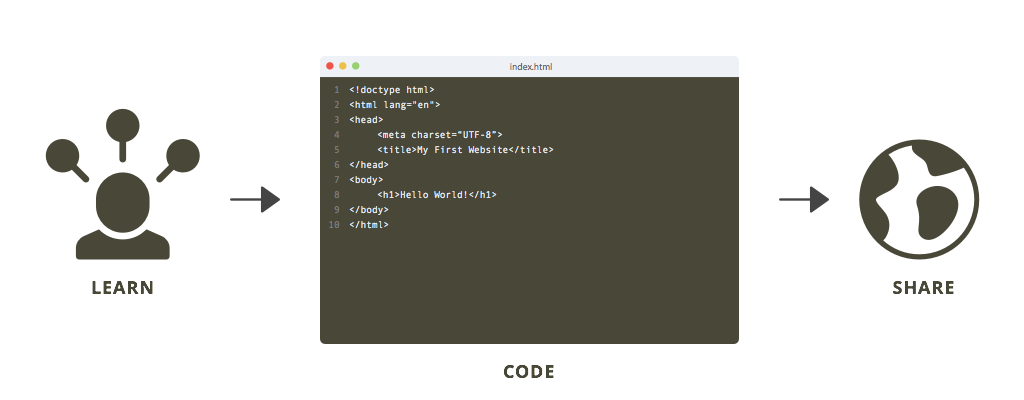
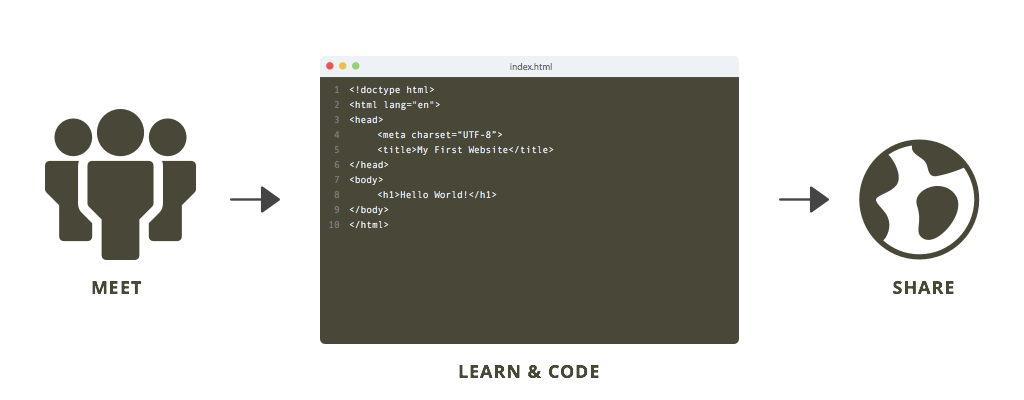
update illustration, minor adjustmnets

Changed region(s): [[0.0312, 0.27, 0.2188, 0.66], [0.4375, 0.9, 0.5938, 0.96], [0.0938, 0.69, 0.1562, 0.75]]

diff --git a/assets/css/screen.css b/assets/css/screen.css
@@ -1,1 +1,1 @@
-article,aside,details,figcaption,figure,footer,header,hgroup,hr,main,menu,nav,section,summary{display:block}hr,input[type=search]{box-sizing:content-box}pre,textarea{overflow:auto}a,a:hover,a:visited{transition:color .75s}body,fieldset{margin:0}fieldset,legend,td,th{padding:0}.hidden,.invisible{visibility:hidden}html{font-family:sans-serif;-ms-text-size-adjust:100%;-webkit-text-size-adjust:100%}audio,canvas,progress,video{display:inline-block;vertical-align:baseline}audio:not([controls]){display:none;height:0}[hidden],template{display:none}a{background-color:transparent}a:active,a:hover{outline:0}abbr[title]{border-bottom:1px dotted}fieldset,hr,img,legend{border:0}b,optgroup,strong{font-weight:700}dfn{font-style:italic}h1{margin:.67em 0}mark{background:#ff0;color:#000}sub,sup{font-size:75%;line-height:0;position:relative;vertical-align:baseline}sup{top:-.5em}sub{bottom:-.25em}svg:not(:root){overflow:hidden}figure{margin:1em 40px}hr{margin:3.24em auto;width:55%;height:1px;background-color:#b7b58c}code,kbd,pre,samp{font-family:monospace,monospace;font-size:1em}button,input,optgroup,select,textarea{color:inherit;font:inherit;margin:0}body,html,ol,p,ul{font-size:.9em}.footer,.text-italic{font-style:italic}button{overflow:visible}button,select{text-transform:none}.header__title,.text-uppercase{text-transform:uppercase}button,html input[type=button],input[type=reset],input[type=submit]{-webkit-appearance:button;cursor:pointer}button[disabled],html input[disabled]{cursor:default}button::-moz-focus-inner,input::-moz-focus-inner{border:0;padding:0}input{line-height:normal}input[type=checkbox],input[type=radio]{box-sizing:border-box;padding:0}input[type=number]::-webkit-inner-spin-button,input[type=number]::-webkit-outer-spin-button{height:auto}input[type=search]{-webkit-appearance:textfield}input[type=search]::-webkit-search-cancel-button,input[type=search]::-webkit-search-decoration{-webkit-appearance:none}textarea{resize:vertical}table{border-collapse:collapse;border-spacing:0}html{line-height:1.5;box-sizing:border-box}*,:after,:before{box-sizing:inherit}body{font-family:"Open Sans",Helvetica,Arial,"Lucida Grande",sans-serif;background:linear-gradient(to bottom,#f8f7d6,#F4F1BB);color:#494838}a,a:visited{color:#ED6A5A;text-decoration:underline}a:hover{color:#b25044!important}.small,p.small,small{font-size:.75em}.big,p.big{font-size:1.08em}h1,h2{font-size:1.86624em}h3{font-size:1.296em}ul{margin-top:1.08em}audio,canvas,iframe,img,svg,video{vertical-align:middle;max-width:100%}.centered,.wrap,.wrap--wide{margin-left:auto;margin-right:auto}.delay-0.5{-webkit-animation-delay:.5s;animation-delay:.5s}.delay-1{-webkit-animation-delay:1s;animation-delay:1s}.delay-1.5{-webkit-animation-delay:1.5s;animation-delay:1.5s}.delay-2{-webkit-animation-delay:2s;animation-delay:2s}.duration-0.5{-webkit-animation-duration:.5s;animation-duration:.5s}.duration-1{-webkit-animation-duration:1s;animation-duration:1s}.duration-1.5{-webkit-animation-duration:1.5s;animation-duration:1.5s}.duration-2{-webkit-animation-duration:2s;animation-duration:2s}.pulse{-webkit-animation-name:pulse;animation-name:pulse}.fadeInUp{-webkit-animation-name:fadeInUp;animation-name:fadeInUp}.clearfix:after,.clearfix:before{content:" ";display:table}.clearfix:after{clear:both}.wrap,.wrap--wide{max-width:98%}.text-center{text-align:center}.text-left{text-align:left}.text-bold{font-weight:700}.text-small{font-size:.75em}.text-super-small{font-size:.625em}.float-left{float:left}.float-right{float:right}.no-float{float:none}.margin-top{margin-top:1.08em}.margin-top--double{margin-top:2.16em}.margin-top--triple{margin-top:3.24em}.margin-top--quadra{margin-top:4.32em}.margin-bottom{margin-bottom:1.08em}.margin-bottom--double{margin-bottom:2.16em}.padding-box{padding:1.08em}.padding-box--double{padding:2.16em}.padding-top{padding-top:1.08em}.padding-top--double{padding-top:2.16em}.padding-bottom{padding-bottom:1.08em}.padding-bottom--double{padding-bottom:2.16em}.padding-ends{padding-top:1.08em;padding-bottom:1.08em}.padding-ends--double{padding-top:2.16em;padding-bottom:2.16em}.padding-sides{padding-left:1.08em;padding-right:1.08em}.padding-sides--double{padding-left:2.16em;padding-right:2.16em}.hidden{display:none!important}.visually-hidden{border:0;clip:rect(0 0 0 0);height:1px;margin:-1px;overflow:hidden;padding:0;position:absolute;width:1px}.visually-hidden.focusable:active,.visually-hidden.focusable:focus{clip:auto;height:auto;margin:0;overflow:visible;position:static;width:auto}.w5{width:5%}.w10{width:10%}.w15{width:15%}.w20{width:20%}.w25{width:25%}.w30{width:30%}.w35{width:35%}.w40{width:40%}.w45{width:45%}.w50{width:50%}.w55{width:55%}.w60{width:60%}.w65{width:65%}.w70{width:70%}.w75{width:75%}.w80{width:80%}.w85{width:85%}.w90{width:90%}.w95{width:95%}.w100{width:100%}.author{margin-top:2.16em}.author__name,.author__social,.author__status{margin-top:.27em}.author__photo img{max-width:90px;border:2px solid #b7b58c;border-radius:50%}.author__name{margin-bottom:0}.author__status{font-size:.75em}.author__status.on{color:#00B16A}.author__status.off{color:#ED6A5A}.author__location{font-weight:700;font-size:1.08em}.author__prompt{margin-top:1.08em;font-size:1.08em}.footer,.header{margin-top:2.16em}.footer{padding-bottom:3.24em;font-size:.9em;text-align:center}.dash-list,.dot-list,.social-media,.unstyled-list{list-style-type:none;padding:0}.header__title{letter-spacing:1px}.header__text{font-size:1.08em}.dash-list{margin-left:0}.dash-list li:before{vertical-align:baseline;content:'–';margin:auto .36em}.dot-list{margin-left:0}.dot-list li{display:inline-block;margin-right:.54em}.dot-list li:after{vertical-align:middle;display:inline-block;content:'';height:5px;width:5px;border-radius:50%;margin-left:.54em;background-color:#b7b58c}.dot-list li:last-of-type{margin-right:none}.dot-list li:last-of-type:after{display:none}.section{margin-top:3.24em}.section__title{margin-bottom:0}.section__body p:first-of-type{margin-top:.27em}.social-media{margin:0;text-align:center}.social-media li{display:inline-block;margin:0 .27em}.social-media div{background-size:17px 17px;background-repeat:no-repeat;height:17px;width:17px}.social-media .github div{background-image:url(../img/icon-github.svg)}.social-media .twitter div{background-image:url(../img/icon-twitter.svg)}.social-media .linkedin div{background-image:url(../img/icon-linkedin.svg)}.social-media .web div{background-image:url(../img/icon-web.svg)}.social-media .mail div{background-image:url(../img/icon-mail.svg)}.workshop{margin-top:2.16em}.workshop__body{margin-top:.27em;font-size:.9em}.workshop__body p:first-child{margin-top:0}.workshop__title{margin-bottom:0}.workshop__label{margin-top:.27em;margin-bottom:.27em;font-weight:700}.workshop ul{margin-top:0}@media only screen and (min-width:768px){body{font-size:1.296em}.wrap{max-width:42em}.wrap--wide{max-width:50em}.section__widgets .author{float:left;width:33%}.author__photo img{max-width:160px}.workshop__split{float:left;width:50%}}@-webkit-keyframes pulse{from{-webkit-transform:scale3d(1,1,1);transform:scale3d(1,1,1);opacity:0}50%{-webkit-transform:scale3d(1.075,1.075,1.075);transform:scale3d(1.075,1.075,1.075)}100%{-webkit-transform:scale3d(1,1,1);transform:scale3d(1,1,1);opacity:1}}@keyframes pulse{from{-webkit-transform:scale3d(1,1,1);transform:scale3d(1,1,1);opacity:0}50%{-webkit-transform:scale3d(1.075,1.075,1.075);transform:scale3d(1.075,1.075,1.075)}100%{-webkit-transform:scale3d(1,1,1);transform:scale3d(1,1,1);opacity:1}}@-webkit-keyframes fadeInUp{from{opacity:0;-webkit-transform:translate3d(0,5%,0);transform:translate3d(0,5%,0)}100%{opacity:1;-webkit-transform:none;transform:none}}@keyframes fadeInUp{from{opacity:0;-webkit-transform:translate3d(0,5%,0);transform:translate3d(0,5%,0)}100%{opacity:1;-webkit-transform:none;transform:none}}
+article,aside,details,figcaption,figure,footer,header,hgroup,hr,main,menu,nav,section,summary{display:block}hr,input[type=search]{box-sizing:content-box}pre,textarea{overflow:auto}a,a:hover,a:visited{transition:color .75s}body,fieldset{margin:0}fieldset,legend,td,th{padding:0}.hidden,.invisible{visibility:hidden}html{font-family:sans-serif;-ms-text-size-adjust:100%;-webkit-text-size-adjust:100%}audio,canvas,progress,video{display:inline-block;vertical-align:baseline}audio:not([controls]){display:none;height:0}[hidden],template{display:none}a{background-color:transparent}a:active,a:hover{outline:0}abbr[title]{border-bottom:1px dotted}fieldset,hr,img,legend{border:0}b,optgroup,strong{font-weight:700}dfn{font-style:italic}h1{margin:.67em 0}mark{background:#ff0;color:#000}sub,sup{font-size:75%;line-height:0;position:relative;vertical-align:baseline}sup{top:-.5em}sub{bottom:-.25em}svg:not(:root){overflow:hidden}figure{margin:1em 40px}hr{margin:3.24em auto;width:55%;height:1px;background-color:#b7b58c}code,kbd,pre,samp{font-family:monospace,monospace;font-size:1em}button,input,optgroup,select,textarea{color:inherit;font:inherit;margin:0}body,html,ol,p,ul{font-size:.9em}.footer,.text-italic{font-style:italic}button{overflow:visible}button,select{text-transform:none}.header__title,.text-uppercase{text-transform:uppercase}button,html input[type=button],input[type=reset],input[type=submit]{-webkit-appearance:button;cursor:pointer}button[disabled],html input[disabled]{cursor:default}button::-moz-focus-inner,input::-moz-focus-inner{border:0;padding:0}input{line-height:normal}input[type=checkbox],input[type=radio]{box-sizing:border-box;padding:0}input[type=number]::-webkit-inner-spin-button,input[type=number]::-webkit-outer-spin-button{height:auto}input[type=search]{-webkit-appearance:textfield}input[type=search]::-webkit-search-cancel-button,input[type=search]::-webkit-search-decoration{-webkit-appearance:none}textarea{resize:vertical}table{border-collapse:collapse;border-spacing:0}html{line-height:1.5;box-sizing:border-box}*,:after,:before{box-sizing:inherit}body{font-family:"Open Sans",Helvetica,Arial,"Lucida Grande",sans-serif;background:linear-gradient(to bottom,#f8f7d6,#F4F1BB);color:#494838}a,a:visited{color:#ED6A5A;text-decoration:underline}a:hover{color:#b25044!important}.small,p.small,small{font-size:.75em}.big,p.big{font-size:1.08em}h1,h2{font-size:1.86624em}h3{font-size:1.296em}ul{margin-top:1.08em}audio,canvas,iframe,img,svg,video{vertical-align:middle;max-width:100%}.centered,.wrap,.wrap--wide{margin-left:auto;margin-right:auto}.delay-0.5{-webkit-animation-delay:.5s;animation-delay:.5s}.delay-1{-webkit-animation-delay:1s;animation-delay:1s}.delay-1.5{-webkit-animation-delay:1.5s;animation-delay:1.5s}.delay-2{-webkit-animation-delay:2s;animation-delay:2s}.duration-0.5{-webkit-animation-duration:.5s;animation-duration:.5s}.duration-1{-webkit-animation-duration:1s;animation-duration:1s}.duration-1.5{-webkit-animation-duration:1.5s;animation-duration:1.5s}.duration-2{-webkit-animation-duration:2s;animation-duration:2s}.pulse{-webkit-animation-name:pulse;animation-name:pulse}.fadeInUp{-webkit-animation-name:fadeInUp;animation-name:fadeInUp}.clearfix:after,.clearfix:before{content:" ";display:table}.clearfix:after{clear:both}.wrap,.wrap--wide{max-width:98%}.text-center{text-align:center}.text-left{text-align:left}.text-bold{font-weight:700}.text-small{font-size:.75em}.text-super-small{font-size:.625em}.float-left{float:left}.float-right{float:right}.no-float{float:none}.margin-top{margin-top:1.08em}.margin-top--double{margin-top:2.16em}.margin-top--triple{margin-top:3.24em}.margin-top--quadra{margin-top:4.32em}.margin-bottom{margin-bottom:1.08em}.margin-bottom--double{margin-bottom:2.16em}.padding-box{padding:1.08em}.padding-box--double{padding:2.16em}.padding-top{padding-top:1.08em}.padding-top--double{padding-top:2.16em}.padding-bottom{padding-bottom:1.08em}.padding-bottom--double{padding-bottom:2.16em}.padding-ends{padding-top:1.08em;padding-bottom:1.08em}.padding-ends--double{padding-top:2.16em;padding-bottom:2.16em}.padding-sides{padding-left:1.08em;padding-right:1.08em}.padding-sides--double{padding-left:2.16em;padding-right:2.16em}.hidden{display:none!important}.visually-hidden{border:0;clip:rect(0 0 0 0);height:1px;margin:-1px;overflow:hidden;padding:0;position:absolute;width:1px}.visually-hidden.focusable:active,.visually-hidden.focusable:focus{clip:auto;height:auto;margin:0;overflow:visible;position:static;width:auto}.w5{width:5%}.w10{width:10%}.w15{width:15%}.w20{width:20%}.w25{width:25%}.w30{width:30%}.w35{width:35%}.w40{width:40%}.w45{width:45%}.w50{width:50%}.w55{width:55%}.w60{width:60%}.w65{width:65%}.w70{width:70%}.w75{width:75%}.w80{width:80%}.w85{width:85%}.w90{width:90%}.w95{width:95%}.w100{width:100%}.author{margin-top:2.16em}.author__name,.author__social,.author__status{margin-top:.27em}.author__photo img{max-width:90px;border:2px solid #b7b58c;border-radius:50%}.author__name{margin-bottom:0}.author__status{font-size:.75em}.author__status.on{color:#00B16A}.author__status.off{color:#ED6A5A}.author__location{font-weight:700;font-size:1.08em}.author__prompt{margin-top:1.08em;font-size:1.08em}.footer,.header{margin-top:2.16em}.footer{padding-bottom:3.24em;font-size:.9em;text-align:center}.dash-list,.dot-list,.social-media,.unstyled-list{list-style-type:none;padding:0}.header__title{letter-spacing:1px}.header__text{font-size:1.08em}.dash-list{margin-left:0}.dash-list li:before{vertical-align:baseline;content:'–';margin:auto .36em}.dot-list{margin-left:0}.dot-list li{display:inline-block;margin-right:.54em}.dot-list li:after{vertical-align:middle;display:inline-block;content:'';height:5px;width:5px;border-radius:50%;margin-left:.54em;background-color:#b7b58c}.dot-list li:last-of-type{margin-right:none}.dot-list li:last-of-type:after{display:none}.section{margin-top:3.24em}.section__title{margin-bottom:0}.section__body p:first-of-type{margin-top:.27em}.social-media{margin:0;text-align:center}.social-media li{display:inline-block;margin:0 .27em}.social-media div{background-size:17px 17px;background-repeat:no-repeat;height:17px;width:17px}.social-media .github div{background-image:url(../img/icon-github.svg)}.social-media .twitter div{background-image:url(../img/icon-twitter.svg)}.social-media .linkedin div{background-image:url(../img/icon-linkedin.svg)}.social-media .web div{background-image:url(../img/icon-web.svg)}.social-media .mail div{background-image:url(../img/icon-mail.svg)}.workshop{margin-top:2.16em}.workshop__body{margin-top:.27em;font-size:.9em}.workshop__body p:first-child{margin-top:0}.workshop__title{margin-bottom:0}.workshop__label{margin-top:.27em;margin-bottom:.27em;font-weight:700}.workshop ul{margin-top:0}@media only screen and (min-width:768px){body{font-size:1.296em}.wrap{max-width:42em}.wrap--wide{max-width:50em}.section__widgets .author{float:left;width:33%}.author__photo img{max-width:160px}.author__prompt{margin-top:2.7em}.workshop__split{float:left;width:50%}}@-webkit-keyframes pulse{from{-webkit-transform:scale3d(1,1,1);transform:scale3d(1,1,1);opacity:0}50%{-webkit-transform:scale3d(1.075,1.075,1.075);transform:scale3d(1.075,1.075,1.075)}100%{-webkit-transform:scale3d(1,1,1);transform:scale3d(1,1,1);opacity:1}}@keyframes pulse{from{-webkit-transform:scale3d(1,1,1);transform:scale3d(1,1,1);opacity:0}50%{-webkit-transform:scale3d(1.075,1.075,1.075);transform:scale3d(1.075,1.075,1.075)}100%{-webkit-transform:scale3d(1,1,1);transform:scale3d(1,1,1);opacity:1}}@-webkit-keyframes fadeInUp{from{opacity:0;-webkit-transform:translate3d(0,5%,0);transform:translate3d(0,5%,0)}100%{opacity:1;-webkit-transform:none;transform:none}}@keyframes fadeInUp{from{opacity:0;-webkit-transform:translate3d(0,5%,0);transform:translate3d(0,5%,0)}100%{opacity:1;-webkit-transform:none;transform:none}}

diff --git a/index.html b/index.html
@@ -161,8 +161,7 @@
 
 
     <footer class="footer clearfix" role="contentinfo">
-        <p>Help shape the future of this young project! Get in touch </p>
-<p><a href="https://github.com/WebCrashCourse/info/tree/gh-pages" target="_blank">Source code and attributions</a></p>
+        <p><a href="https://github.com/WebCrashCourse/info/tree/gh-pages" target="_blank">Source code and attributions</a></p>
 
     </footer>
     

diff --git a/_html/texts/footer.html b/_html/texts/footer.html
@@ -1,2 +1,1 @@
-<p>Help shape the future of this young project! Get in touch </p>
 <p><a href="https://github.com/WebCrashCourse/info/tree/gh-pages" target="_blank">Source code and attributions</a></p>

diff --git a/partials/footer.html b/partials/footer.html
@@ -1,2 +1,1 @@
-<p>Help shape the future of this young project! Get in touch </p>
 <p><a href="https://github.com/WebCrashCourse/info/tree/gh-pages" target="_blank">Source code and attributions</a></p>

diff --git a/texts/footer.html b/texts/footer.html
@@ -1,2 +1,1 @@
-<p>Help shape the future of this young project! Get in touch </p>
 <p><a href="https://github.com/WebCrashCourse/info/tree/gh-pages" target="_blank">Source code and attributions</a></p>

diff --git a/_sass/modules/_author.scss b/_sass/modules/_author.scss
@@ -54,4 +54,8 @@
 .author__prompt {
 	margin-top: $spacing;
 	font-size: ms(1);
+
+	@include MQ(M) {
+		margin-top: $spacing*2.5;
+	}
 }

diff --git a/_md/footer.md b/_md/footer.md
@@ -1,3 +1,1 @@
-Help shape the future of this young project! Get in touch 
-
 <a href="https://github.com/WebCrashCourse/info/tree/gh-pages" target="_blank">Source code and attributions</a>
